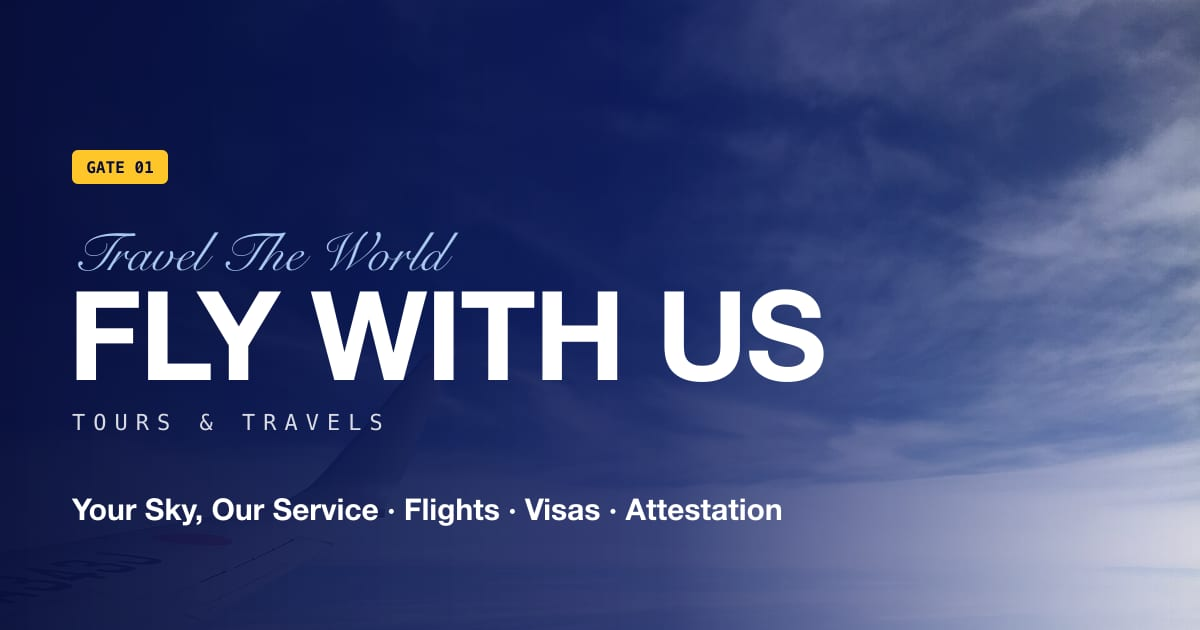
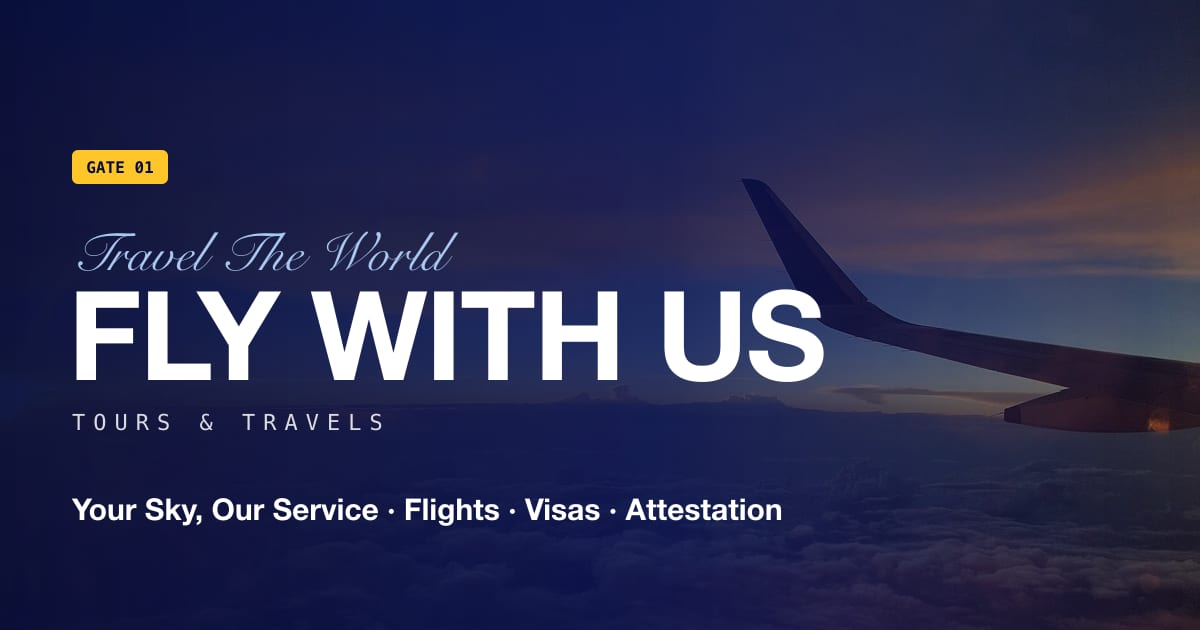
Hero: golden-hour sunset over the wing
- New hero photo (window view of the wing above the clouds at sunset,
  Pinakpani, CC BY-SA 4.0); old sky photo removed
- Overlay kept dark only behind the copy so the sunset stays warm;
  crop tuned for desktop and phones; slight warmth/brightness lift
- Share image regenerated from the new photo; photo credits updated

diff --git a/src/data/site.ts b/src/data/site.ts
@@ -267,7 +267,7 @@ export const reviews: { name: string; text: string; when?: string; tag?: string 
 export const ratingBreakdown = reviewData.breakdown;
 
 export const photoCredits = [
-  { what: 'Sky', who: 'Harry Knight (CC0)', url: 'https://commons.wikimedia.org/wiki/File:In_flight_above_scattered_clouds_(Unsplash).jpg' },
+  { what: 'Sunset over the wing', who: 'Pinakpani (CC BY-SA 4.0)', url: 'https://commons.wikimedia.org/wiki/File:Aircraft_cabin_window_views_of_sunset,_a_flight_towards_Kolkata_from_Hyderabad_05.jpg' },
   { what: 'Dubai', who: 'imran shahabuddin (CC BY 2.0)', url: 'https://commons.wikimedia.org/wiki/File:Burj_Khalifa_(worlds_tallest_building)_and_the_Dubai_skyline_(25781049892).jpg' },
   { what: 'Riyadh', who: 'B.alotaby (CC BY-SA 4.0)', url: 'https://commons.wikimedia.org/wiki/File:Riyadh_Skyline_showing_the_King_Abdullah_Financial_District_(KAFD)_and_the_famous_Kingdom_Tower_.jpg' },
   { what: 'Doha', who: 'Zairon (CC BY 4.0)', url: 'https://commons.wikimedia.org/wiki/File:Doha_Skyline_02.jpg' },
